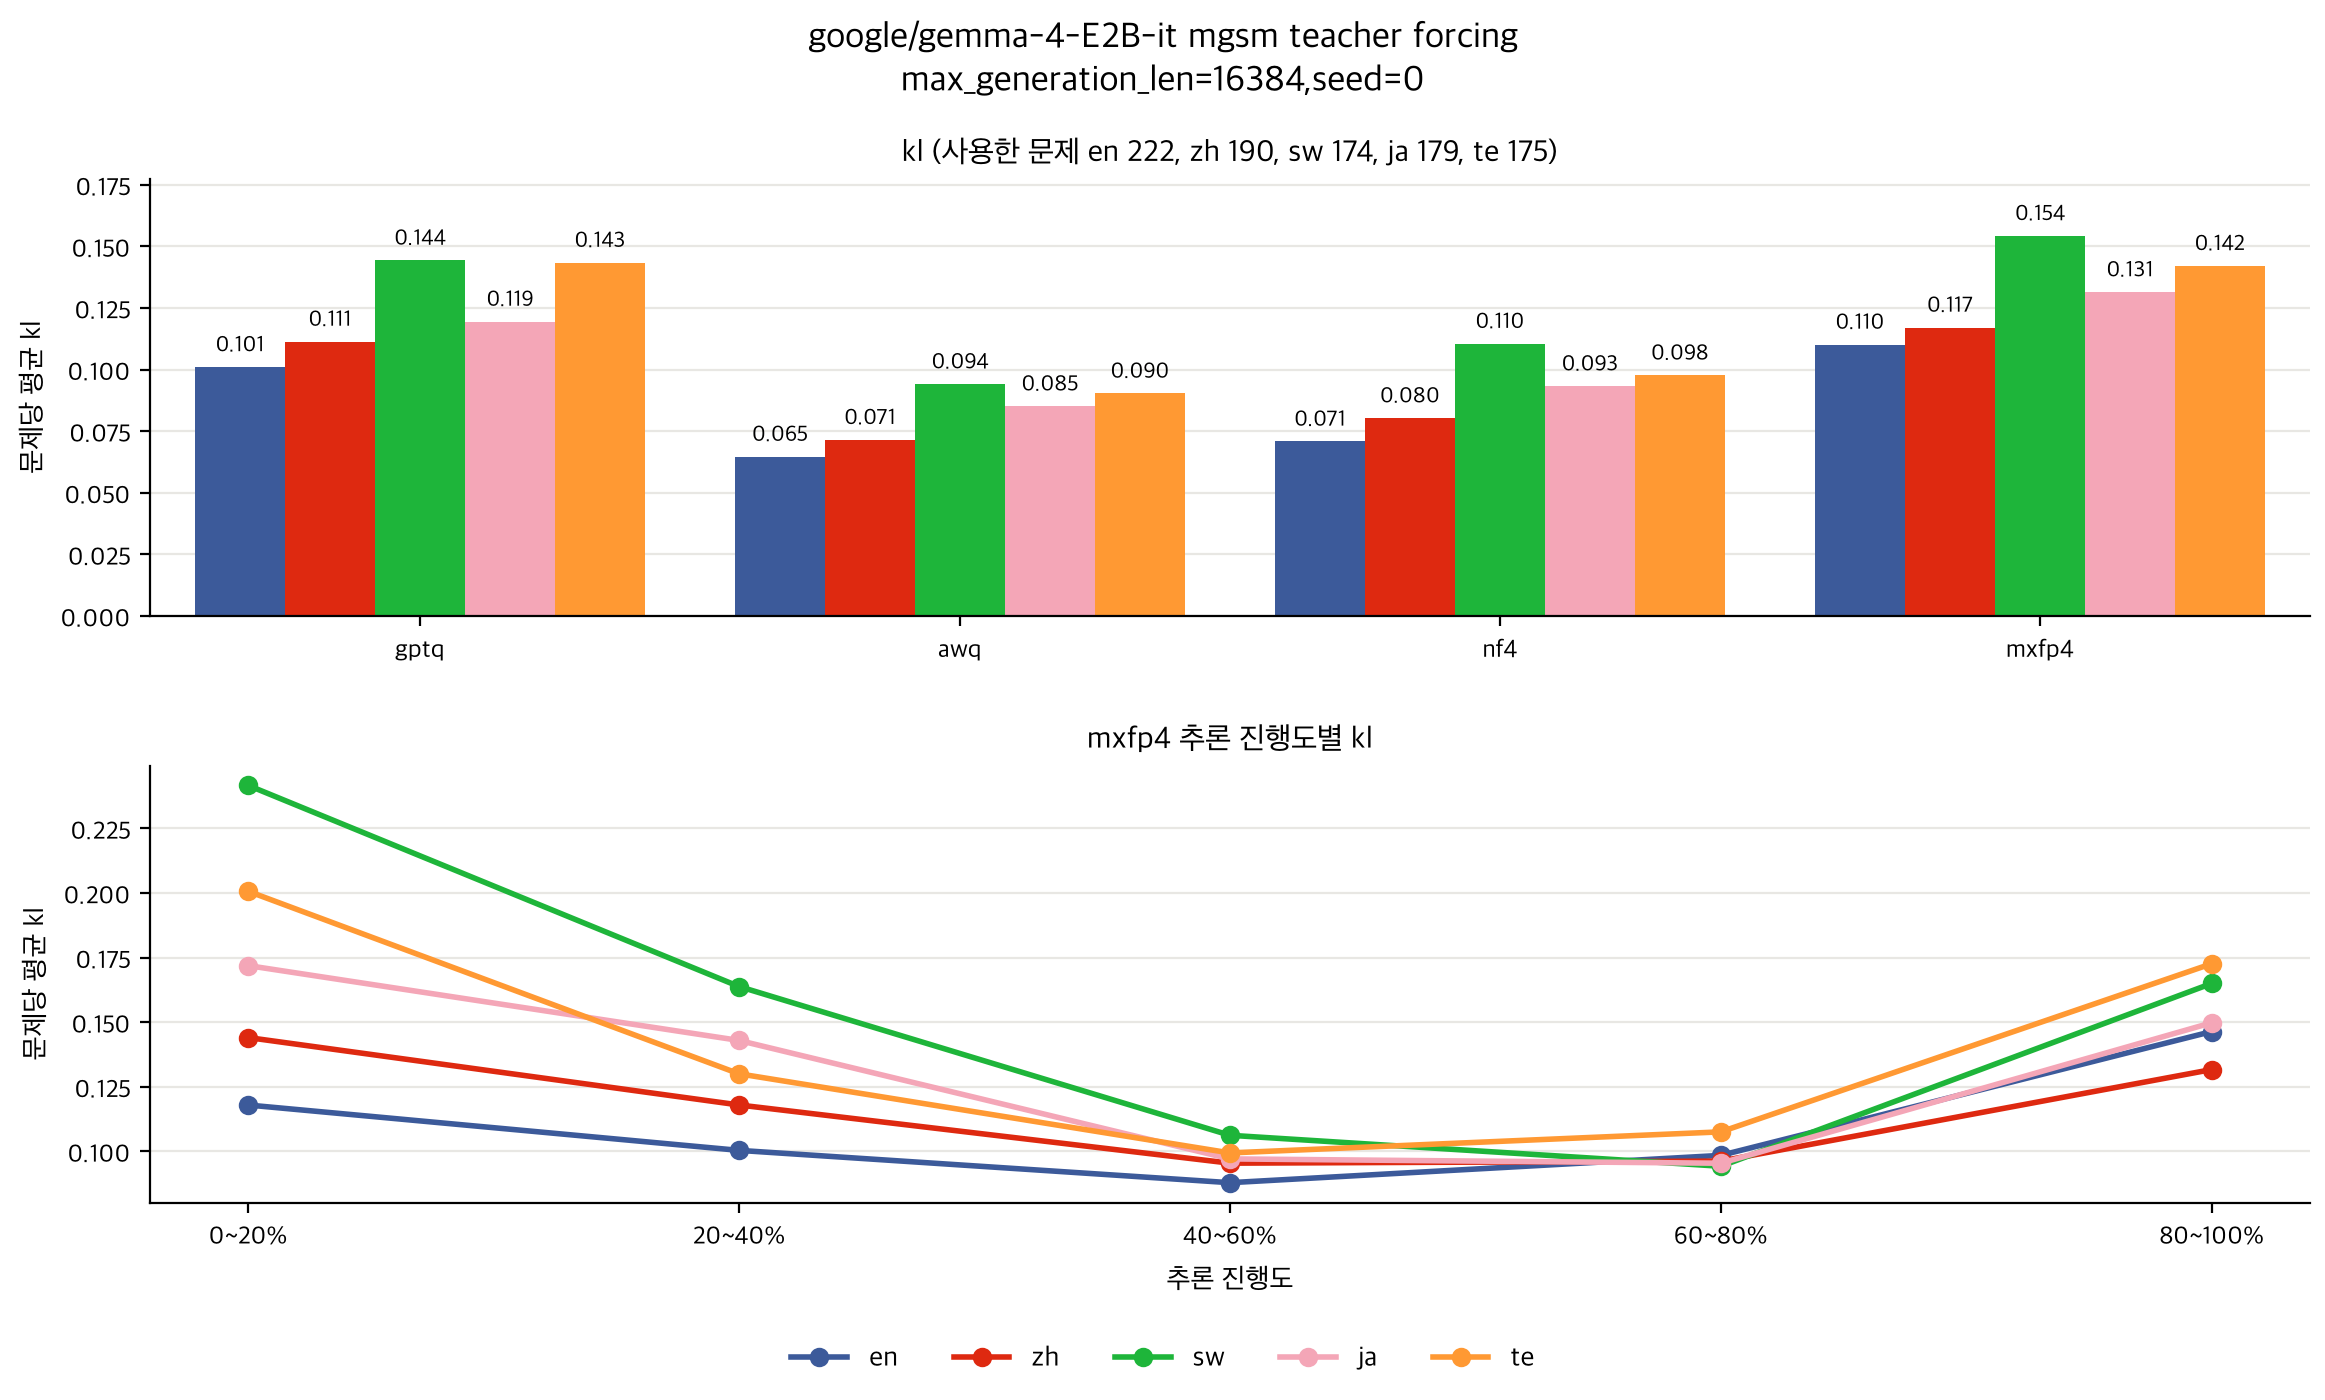
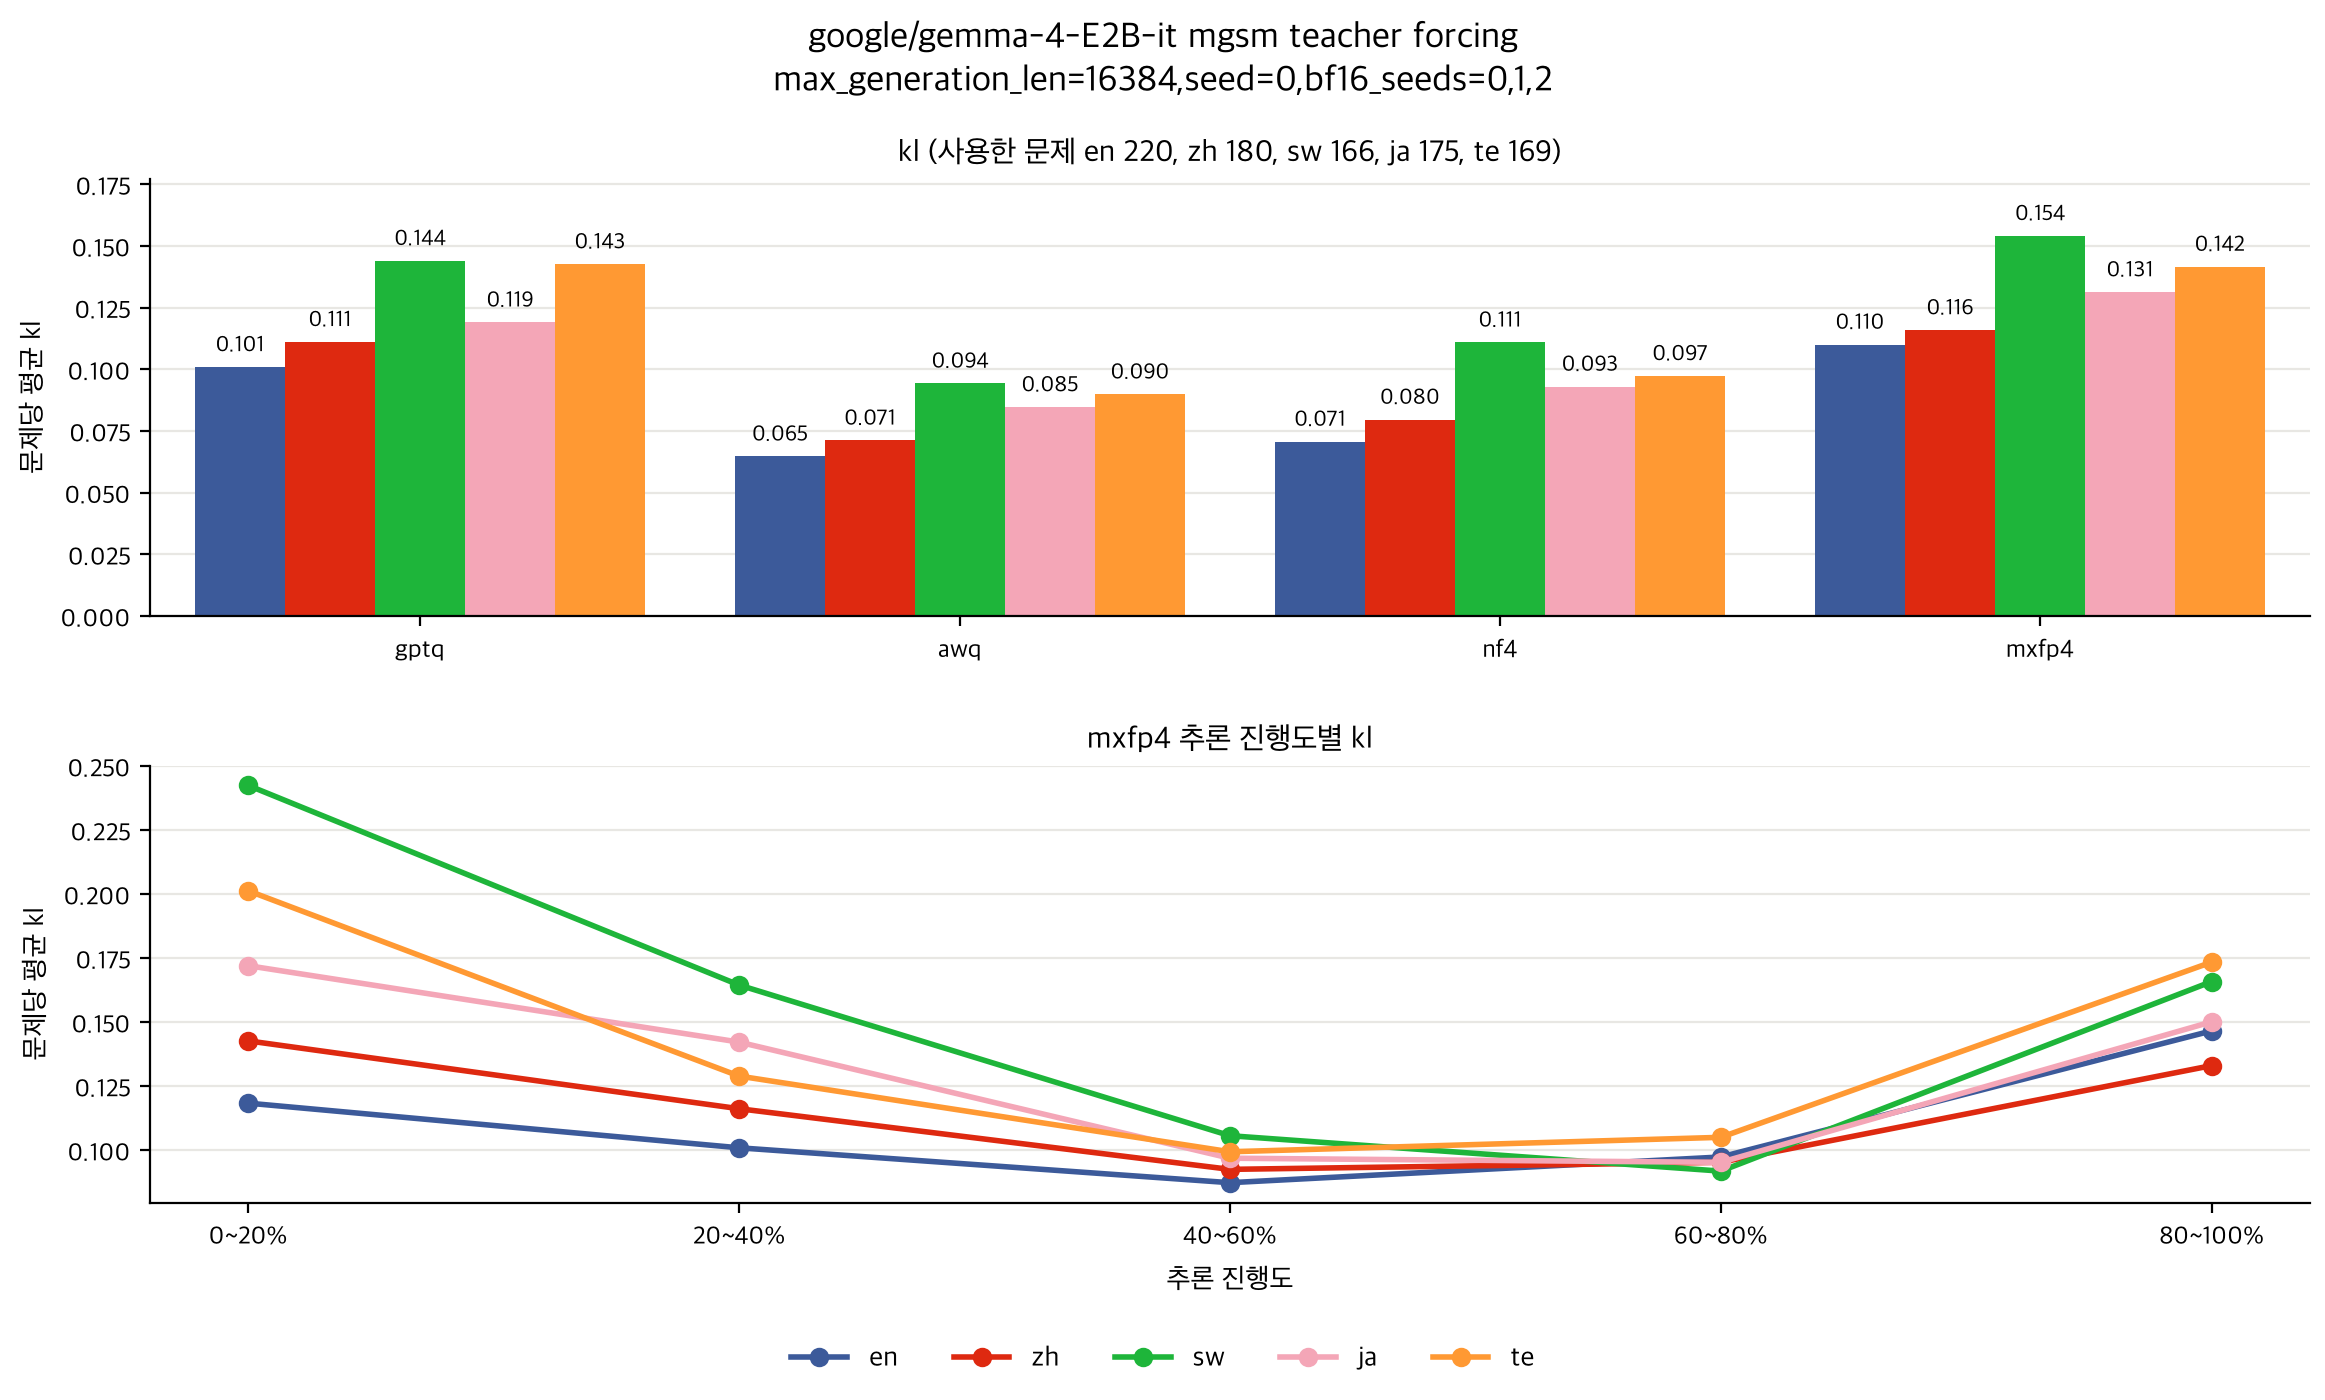
추론 위치별 예측 차이 실험의 bf16 seed 기준 통일

diff --git a/plots/teacher_forcing.py b/plots/teacher_forcing.py
@@ -7,8 +7,9 @@ from simple_parsing import parse
 import torch
 from torch import Tensor
 
-from utils.hub import load_tensors
-from utils.paths import make_target_path
+from utils.hub import load_result, load_tensors
+from utils.metrics import get_all_correct_mask
+from utils.paths import make_target_path, make_uncalibrated_path
 from utils.plot import LANGUAGE_COLORS, LANGUAGES, METHODS, NUM_PROGRESS_BINS, PROGRESS_LABELS, fit_bar_width, get_figsize, get_panel_width, plot_bars, save_figure
 
 
@@ -21,13 +22,16 @@ class Config:
     num_samples: int = 128
     max_generation_len: int = 16384
     seed: int = 0
+    bf16_seeds: tuple[int, ...] = (0, 1, 2)
 
 
 def split_problems(
     values: Tensor,
     problem_index: Tensor,
-) -> tuple[Tensor, ...]:
-    return values.split(problem_index.unique_consecutive(return_counts=True)[1].tolist())
+    used: Tensor,
+) -> list[Tensor]:
+    problem_indices, counts = problem_index.unique_consecutive(return_counts=True)
+    return [problem_values for index, problem_values in zip(problem_indices.tolist(), values.split(counts.tolist())) if used[index]]
 
 
 def main() -> None:
@@ -37,21 +41,23 @@ def main() -> None:
     for method in METHODS:
         target = make_target_path(method, config.model_name, config.calibration_languages, config.num_bits, config.group_size, config.num_samples)
         results[method] = load_tensors("teacher_forcing/mgsm", target, file_name)
+    bf16_results = [load_result("mgsm", make_uncalibrated_path("bf16", config.model_name), f"max_generation_len={config.max_generation_len},seed={seed}") for seed in config.bf16_seeds]
+    used = {language: torch.tensor(get_all_correct_mask([bf16_result[language] for bf16_result in bf16_results])) for language in LANGUAGES}
 
     series = []
     for language in LANGUAGES:
-        kl_means = [torch.stack([kl.mean() for kl in split_problems(result[f"{language}/kl"], result[f"{language}/problem_index"])]).mean().item() for result in results.values()]
+        kl_means = [torch.stack([kl.mean() for kl in split_problems(result[f"{language}/kl"], result[f"{language}/problem_index"], used[language])]).mean().item() for result in results.values()]
         series.append((kl_means, LANGUAGE_COLORS[language], [f"{kl_mean:.3f}" for kl_mean in kl_means]))
 
     fig, axes = plt.subplot_mosaic([["kl"], ["progress"]], figsize=get_figsize([get_panel_width(len(results), len(LANGUAGES))], 2), layout="constrained")
     plot_bars(axes["kl"], list(results), series)
     axes["kl"].set_ylim(0, max(max(values) for values, _, _ in series) * 1.15)
     axes["kl"].set_ylabel("문제당 평균 kl")
-    used_counts = [f"{language} {len(results['mxfp4'][f'{language}/problem_index'].unique())}" for language in LANGUAGES]
+    used_counts = [f"{language} {used[language].sum()}" for language in LANGUAGES]
     axes["kl"].set_title(f"kl (사용한 문제 {', '.join(used_counts)})")
 
     for language in LANGUAGES:
-        problem_kls = split_problems(results["mxfp4"][f"{language}/kl"], results["mxfp4"][f"{language}/problem_index"])
+        problem_kls = split_problems(results["mxfp4"][f"{language}/kl"], results["mxfp4"][f"{language}/problem_index"], used[language])
         progress_kls = torch.stack([torch.stack([bin_kl.mean() for bin_kl in kl.tensor_split(NUM_PROGRESS_BINS)]) for kl in problem_kls])
         axes["progress"].plot(range(NUM_PROGRESS_BINS), progress_kls.mean(dim=0), color=LANGUAGE_COLORS[language], marker="o", linewidth=2)
     axes["progress"].set_xticks(range(NUM_PROGRESS_BINS), PROGRESS_LABELS)
@@ -59,7 +65,7 @@ def main() -> None:
     axes["progress"].set_ylabel("문제당 평균 kl")
     axes["progress"].set_title("mxfp4 추론 진행도별 kl")
 
-    fig.suptitle(f"{config.model_name} mgsm teacher forcing\n{file_name}")
+    fig.suptitle(f"{config.model_name} mgsm teacher forcing\n{file_name},bf16_seeds={','.join(map(str, config.bf16_seeds))}")
     fig.legend(handles=[Line2D([], [], color=LANGUAGE_COLORS[language], marker="o", linewidth=2, label=language) for language in LANGUAGES], loc="outside lower center", ncol=len(LANGUAGES))
     fit_bar_width(fig, [axes["kl"]])
     save_figure(fig, config.model_name, "mgsm_teacher_forcing")

diff --git a/plots/error_types.py b/plots/error_types.py
@@ -88,7 +88,7 @@ def main() -> None:
     axes["progress"].set_ylabel("첫 오류 중 비율")
     axes["progress"].set_title(f"{config.method} 추론 진행도별 첫 오류")
 
-    fig.suptitle(f"{config.model_name} mgsm error types\nmax_generation_len={config.max_generation_len},seeds={','.join(map(str, config.seeds))}")
+    fig.suptitle(f"{config.model_name} mgsm error types\nmax_generation_len={config.max_generation_len},seeds={','.join(map(str, config.seeds))},bf16_seeds={','.join(map(str, config.bf16_seeds))}")
     fig.legend(handles=[Patch(color=color, label=ERROR_TYPE_LABELS[error_type]) for error_type, color in ERROR_TYPE_COLORS.items()], loc="outside lower center", ncol=len(ERROR_TYPE_COLORS) // 2)
     save_figure(fig, config.model_name, "mgsm_error_types")
 

diff --git a/experiments/teacher_forcing.py b/experiments/teacher_forcing.py
@@ -19,7 +19,7 @@ from utils.paths import make_target_path, make_uncalibrated_path
 @dataclass
 class Config:
     seed: int = 0
-    bf16_seeds: tuple[int, ...] = (0, 1)
+    bf16_seeds: tuple[int, ...] = (0, 1, 2)
     max_generation_len: int = 16384
     logit_chunk_len: int = 2048
     # bf16과 비교할 모델

diff --git a/docs/results.md b/docs/results.md
@@ -81,7 +81,7 @@ calibration 언어가 중요한지 확인
 #### 설정
 - 추론 진행도: 문제마다 추론 token을 5등분한 구간
 - 추론 진행도별 kl은 mxfp4만
-- bf16 seed 0과 1이 모두 푼 문제에서 bf16 seed 0 추론 추출
+- 모든 bf16 seed가 푼 문제에서 bf16 seed 0 추론 추출
 - 그 추론을 bf16과 양자화 모델에 입력
 - 추론 위치마다 두 모델의 다음 token 예측을 kl로 비교
 
